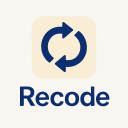
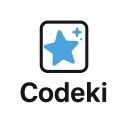
Added validation of coding profile usernames

diff --git a/popup.js b/popup.js
@@ -1,7 +1,36 @@
+async function isValidLeetCodeUser(username) {
+    if (!username) return true;
+    try {
+        const response = await fetch('https://leetcode.com/graphql', {
+            method: 'POST',
+            headers: { 'Content-Type': 'application/json' },
+            body: JSON.stringify({
+                query: `query userPublicProfile($username: String!) { userProfilePublicProfile(username: $username) { username } }`,
+                variables: { username: username }
+            })
+        });
+        const data = await response.json();
+        return !!data.data?.userProfilePublicProfile;
+    } catch (error) {
+        return false;
+    }
+}
+
+async function isValidCodeforcesUser(handle) {
+    if (!handle) return true;
+    try {
+        const response = await fetch(`https://codeforces.com/api/user.info?handles=${handle}`);
+        const data = await response.json();
+        return data.status === 'OK';
+    } catch (error) {
+        return false;
+    }
+}
+
 document.addEventListener('DOMContentLoaded', async () => {
     const { usernames } = await chrome.storage.local.get('usernames');
-
-    if (!usernames || !usernames.leetcode || !usernames.codeforces) {
+    // Show setup if usernames object doesn't exist or both names are empty
+    if (!usernames || (!usernames.leetcode && !usernames.codeforces)) {
         document.getElementById('setupView').classList.remove('hidden');
     } else {
         document.getElementById('reviewView').classList.remove('hidden');
@@ -10,13 +39,52 @@ document.addEventListener('DOMContentLoaded', async () => {
 });
 
 document.getElementById('saveUsernames')?.addEventListener('click', async () => {
-    const leetcode = document.getElementById('leetcodeUser').value.trim();
-    const codeforces = document.getElementById('codeforcesUser').value.trim();
-    if (leetcode && codeforces) {
+    const leetcodeEl = document.getElementById('leetcodeUser');
+    const codeforcesEl = document.getElementById('codeforcesUser');
+    const errorEl = document.getElementById('errorMessage');
+    const saveButton = document.getElementById('saveUsernames');
+
+    const leetcode = leetcodeEl.value.trim();
+    const codeforces = codeforcesEl.value.trim();
+
+    errorEl.classList.add('hidden');
+    leetcodeEl.classList.remove('input-error');
+    codeforcesEl.classList.remove('input-error');
+    saveButton.textContent = "Validating...";
+    saveButton.disabled = true;
+
+    if (!leetcode && !codeforces) {
+        errorEl.textContent = "At least one username is required.";
+        errorEl.classList.remove('hidden');
+        leetcodeEl.classList.add('input-error');
+        codeforcesEl.classList.add('input-error');
+        saveButton.textContent = "Save & Start";
+        saveButton.disabled = false;
+        return;
+    }
+
+    const [isLeetCodeValid, isCodeforcesValid] = await Promise.all([
+        isValidLeetCodeUser(leetcode),
+        isValidCodeforcesUser(codeforces)
+    ]);
+    
+    saveButton.textContent = "Save & Start";
+    saveButton.disabled = false;
+
+    if (isLeetCodeValid && isCodeforcesValid) {
         await chrome.storage.local.set({ usernames: { leetcode, codeforces } });
         document.getElementById('setupView').classList.add('hidden');
         document.getElementById('reviewView').classList.remove('hidden');
         renderReviewList();
+    } else {
+        errorEl.textContent = "One or more usernames could not be found.";
+        errorEl.classList.remove('hidden');
+        if (!isLeetCodeValid) {
+            leetcodeEl.classList.add('input-error');
+        }
+        if (!isCodeforcesValid) {
+            codeforcesEl.classList.add('input-error');
+        }
     }
 });
 
@@ -25,12 +93,9 @@ async function renderReviewList() {
     const listEl = document.getElementById('problem-list');
     const noReviewsEl = document.getElementById('noReviewsMessage');
     listEl.innerHTML = '';
-
     const now = new Date();
-    const dueProblems = Object.values(problems).filter(p => {
-        if (!p.nextReview) return false;
-        return new Date(p.nextReview) <= now;
-    });
+    const dueProblems = Object.values(problems).filter(p => p.nextReview && new Date(p.nextReview) <= now);
+
     if (dueProblems.length === 0) {
         noReviewsEl.classList.remove('hidden');
         return;
@@ -38,12 +103,9 @@ async function renderReviewList() {
     
     noReviewsEl.classList.add('hidden');
     dueProblems.sort((a, b) => new Date(a.nextReview) - new Date(b.nextReview));
-
     dueProblems.forEach(problem => {
         const li = document.createElement('li');
-        li.innerHTML = `
-            <a href="${problem.url}" target="_blank" title="Click to solve">${problem.title}</a>
-        `;
+        li.innerHTML = `<a href="${problem.url}" target="_blank" title="Click to solve">${problem.title}</a>`;
         listEl.appendChild(li);
     });
 }

diff --git a/popup.html b/popup.html
@@ -11,6 +11,7 @@
         <p>Please enter your usernames to begin tracking submissions.</p>
         <input type="text" id="leetcodeUser" placeholder="LeetCode Username">
         <input type="text" id="codeforcesUser" placeholder="Codeforces Handle">
+        <p id="errorMessage" class="error-message hidden"></p>
         <button id="saveUsernames">Save & Start</button>
     </div>
 

diff --git a/style.css b/style.css
@@ -96,3 +96,14 @@ button:hover {
     font-style: italic;
     color: #888;
 }
+
+.input-error {
+    border-color: #e53e3e;
+}
+
+.error-message {
+    color: #c53030;
+    font-size: 13px;
+    margin-top: -5px;
+    margin-bottom: 10px;
+}

diff --git a/content_lc.js b/content_lc.js
@@ -17,5 +17,5 @@ if (window.location.href.includes('/solutions/')) {
             source: "LeetCode",
             title: problemTitle
         });
-    }, 500); 
+    }, 1000); 
 }

diff --git a/README.md b/README.md
@@ -1,15 +1,12 @@
-# CodeRecall
-A chrome extension to mark LeetCode and Codeforces problems for spaced repetition and review them when due.
+# Codeki
 
-The extension works on a **peek-to-add** model. It doesn't add every problem you visit - a problem is only added to your queue when the extension detects that you're viewing a solution. On LeetCode, this happens when you visit the solutions page, and on Codeforces, it happens when you reveal a hint or solution within an editorial blog post. This keeps your review list focused on problems you’ve actively engaged with.
+![A chrome extension to mark LeetCode and Codeforces problems for spaced repetition and review them when due.](/banner.png)
 
----
+Codeki works on a peek-to-add model. It doesn't add every problem you visit - a problem is only added to your queue when the extension detects that you're viewing a solution. On LeetCode, this happens when you visit the solutions page, and on Codeforces, it happens when you reveal a hint or solution within an editorial blog post. This keeps your review list focused on problems you’ve actively engaged with.
 
 ## How Scheduling Works
 
-CodeRecall uses Anki's spaced repetition algorithm (SM-2) to decide when you should see a problem again. When a problem is first added after peeking at a solution, it’s scheduled for review soon. For problems that are due, the extension automatically checks your submission history. If you solve a problem correctly on the first try, its next review is scheduled far into the future. If it takes you a few wrong attempts to get an accepted solution, the problem will be scheduled for an earlier review, giving you more practice.
-
----
+Codeki uses Anki's spaced repetition algorithm (SM-2) to decide when you should see a problem again. When a problem is first added after peeking at a solution, it’s scheduled for review soon. For problems that are due, the extension automatically checks your submission history. If you solve a problem correctly on the first try, its next review is scheduled far into the future. If it takes you a few wrong attempts to get an accepted solution, the problem will be scheduled for an earlier review, giving you more practice.
 
 ## Installation
 
